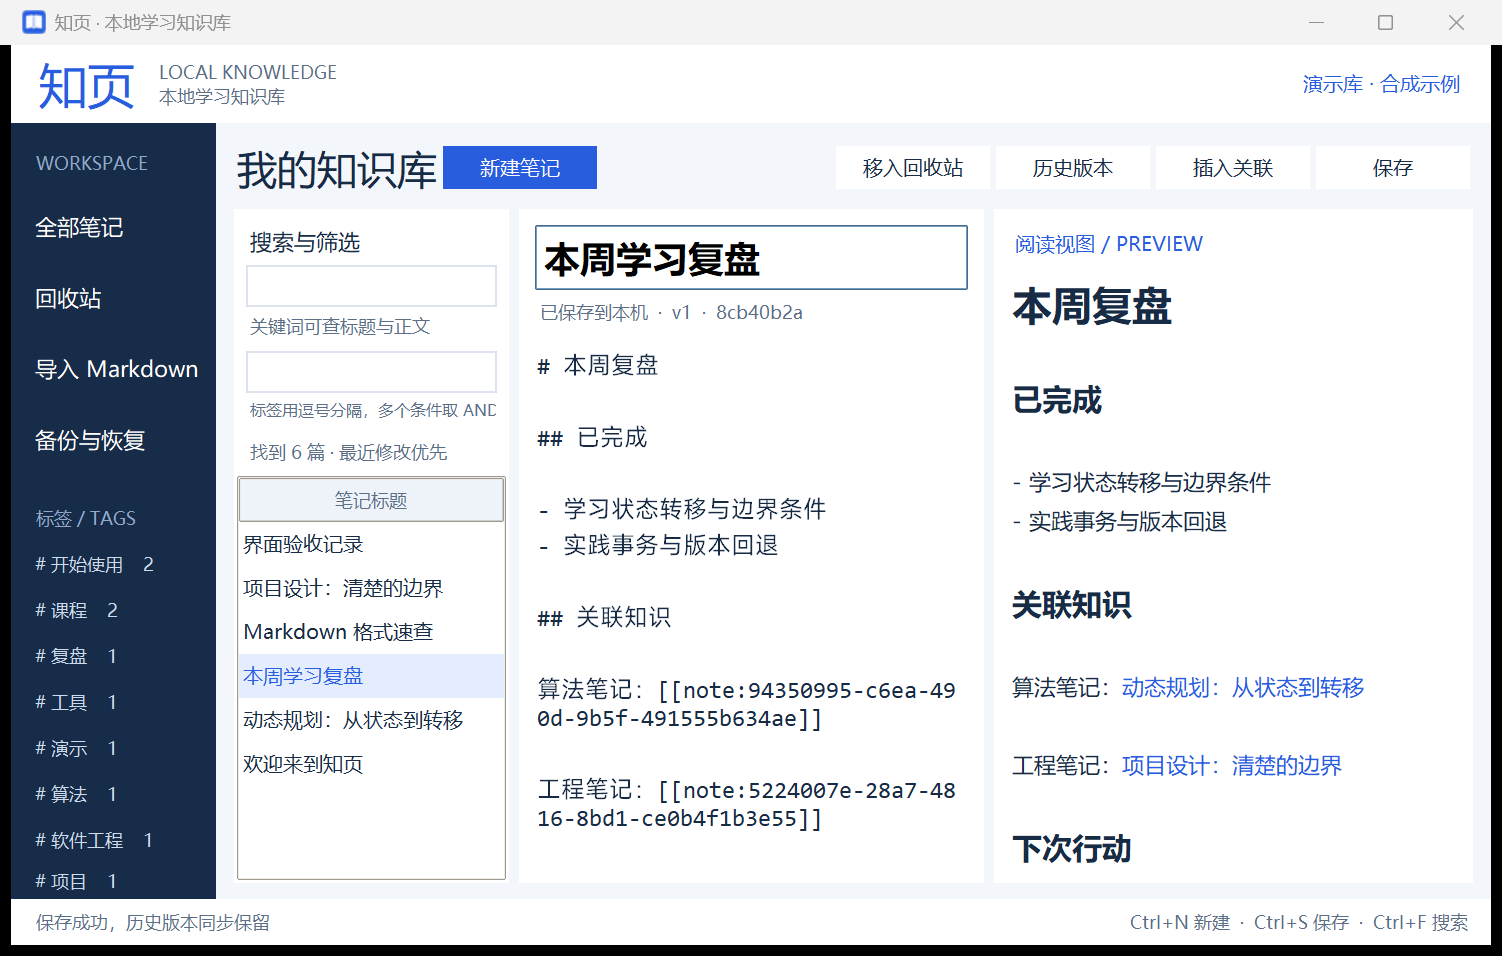
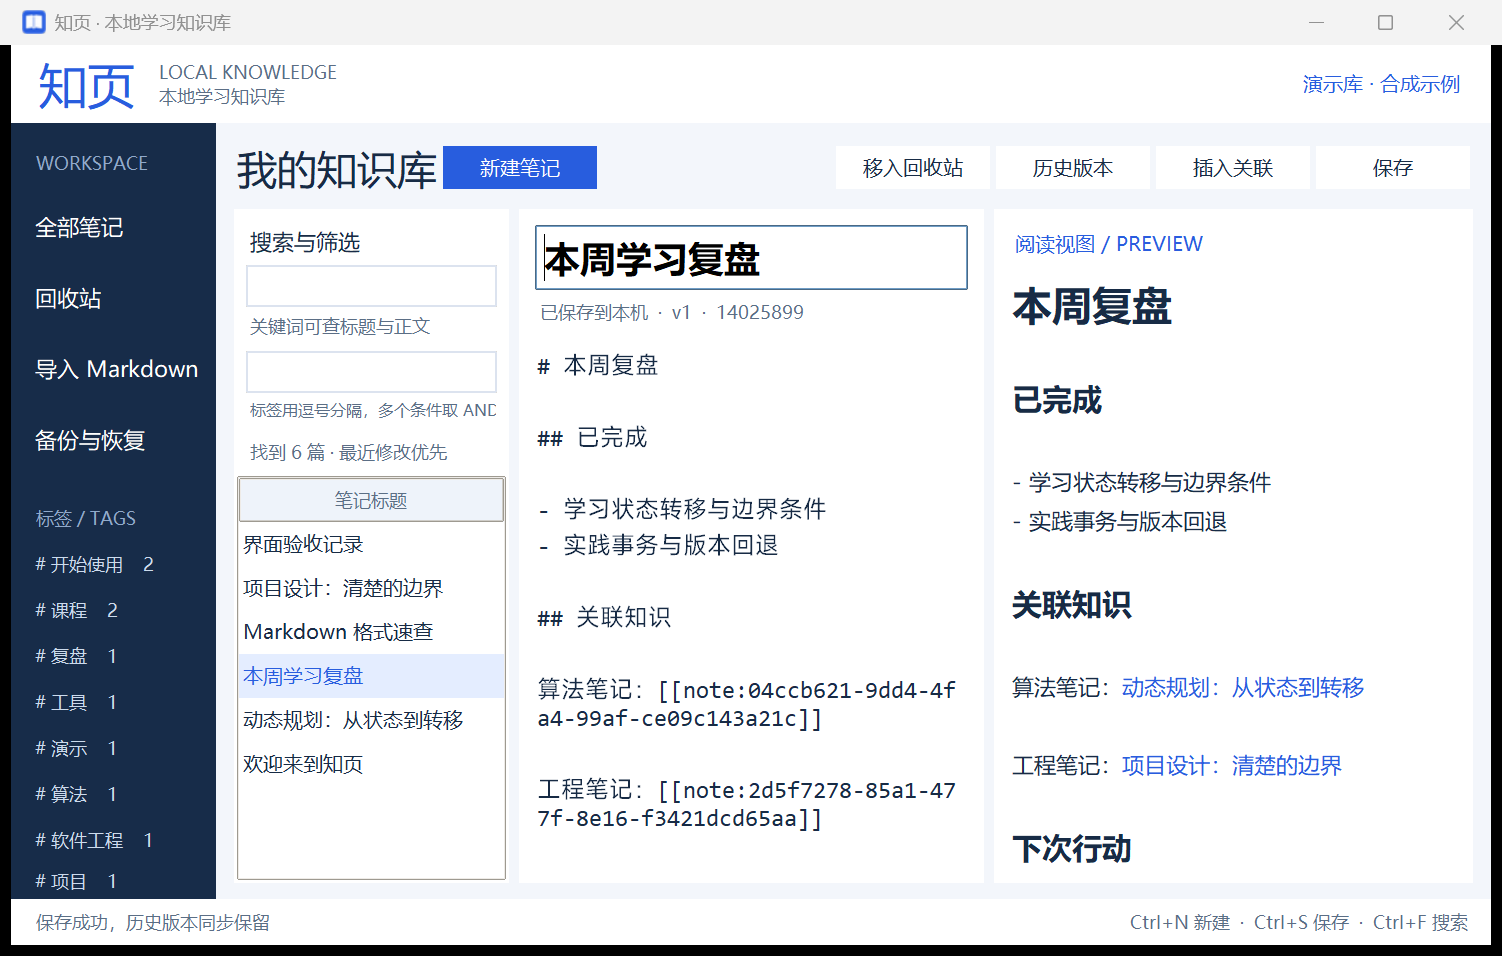
build: package verified executable reports and authentic history

Changed region(s): [[0.3369, 0.6977, 0.6125, 0.7584], [0.3675, 0.819, 0.6125, 0.8797], [0.4594, 0.3033, 0.5513, 0.3337]]

diff --git a/tools/package_release.py b/tools/package_release.py
@@ -1,0 +1,187 @@
+"""Package actual artifacts and evidence, excluding personal databases and credentials."""
+
+import hashlib
+import json
+import subprocess
+import sys
+import zipfile
+from datetime import datetime, timezone
+from pathlib import Path
+
+ROOT = Path(__file__).resolve().parent.parent
+RELEASE = ROOT / "release"
+VERSION = "v1.0.0"
+REPO = "https://github.com/IceApplejuice/zhiyeteam-software-engineering"
+
+
+def git(*args):
+    return subprocess.check_output(["git", *args], cwd=ROOT).decode("utf-8").strip()
+
+
+def load(name):
+    return json.loads((ROOT / "reports" / name).read_text(encoding="utf-8"))
+
+
+def digest(content):
+    return hashlib.sha256(content).hexdigest()
+
+
+def main():
+    RELEASE.mkdir(exist_ok=True)
+    tests, frozen, build = [
+        load(n) for n in ("test_results.json", "frozen_smoke.json", "build.json")
+    ]
+    assert (
+        tests["passed"]
+        and tests["failures"] == tests["errors"] == tests["skipped"] == 0
+    )
+    assert frozen["passed"] and frozen["self_contained_executable_launched"]
+    assert all(x["word_pdf_content_matches"] for x in load("document_checks.json"))
+    assert not git(
+        "diff", "--name-only", tests["git_revision"], "--", "src", "tests"
+    ), "Production/test source changed since measured tests; run checks and rebuild."
+    assert not git(
+        "status", "--porcelain", "--", "src", "tests", "tools", "docs", "README.md"
+    ), "Commit reviewed source before packaging."
+    exe = (ROOT / "dist/ZhiYeTeam.exe").read_bytes()
+    assert digest(exe) == build["sha256"] and len(exe) == build["bytes"]
+    head = git("rev-parse", "HEAD")
+    audit = load("contribution_status.json")
+    assert audit["snapshot_head"] == head, "Refresh contribution_audit.py first."
+    publish = load("github_publish.json")
+    assert publish["head"] == head and publish["all_original_commit_hashes_preserved"]
+    ci = load("ci_status.json")
+    assert ci["headSha"] == head and ci["conclusion"] == "success", (
+        "Final CI has not passed."
+    )
+    source = RELEASE / "zhiyeteam-source.zip"
+    subprocess.run(
+        ["git", "archive", "--format=zip", "--output", str(source), head],
+        cwd=ROOT,
+        check=True,
+    )
+    bundle = RELEASE / "zhiyeteam-history.bundle"
+    subprocess.run(
+        ["git", "bundle", "create", str(bundle), "--all"], cwd=ROOT, check=True
+    )
+    subprocess.run(
+        ["git", "bundle", "verify", str(bundle)],
+        cwd=ROOT,
+        check=True,
+        stdout=subprocess.PIPE,
+        stderr=subprocess.PIPE,
+    )
+    entries = {}
+
+    def add(path, name):
+        entries[name] = Path(path).read_bytes()
+
+    entries["软件/ZhiYeTeam.exe"] = exe
+    for label, arguments in (("启动演示", " --demo"), ("启动个人笔记", "")):
+        entries[f"软件/{label}.bat"] = (
+            '@echo off\r\ncd /d "%~dp0"\r\nstart "" "%~dp0ZhiYeTeam.exe"'
+            + arguments
+            + "\r\n"
+        ).encode("ascii")
+    for path in sorted((ROOT / "docs/generated").iterdir()):
+        if path.suffix in (".pdf", ".docx"):
+            add(path, "报告/" + path.name)
+    assert sum(n.startswith("报告/") for n in entries) == 8
+    add(source, "源码/" + source.name)
+    add(bundle, "源码/" + bundle.name)
+    for path in sorted((ROOT / "reports").iterdir()):
+        if (
+            path.suffix in (".json", ".csv", ".txt")
+            and path.name != "release_manifest.json"
+        ):
+            add(path, "证据/" + path.name)
+    for name in (
+        "团队分工与提交计划.md",
+        "现场演示步骤.md",
+        "功能与代码定位.md",
+        "成员信息.csv",
+        "真实用户反馈记录.csv",
+    ):
+        add(ROOT / "docs" / name, "分工与答辩/" + name)
+    for name in ("architecture.png", "desktop.png"):
+        add(ROOT / "docs/images" / name, "证据/截图/" + name)
+    # Preserve licenses actually distributed by the installed runtime/build tools.
+    licenses = {
+        "Python-LICENSE.txt": Path(sys.base_prefix) / "LICENSE.txt",
+        "Tk-license.terms": Path(sys.base_prefix) / "tcl/tk8.6/license.terms",
+    }
+    site = ROOT / ".venv/Lib/site-packages"
+    for pattern, label in (
+        ("markdown-*.dist-info/licenses/LICENSE.md", "Markdown-LICENSE.md"),
+        ("pyinstaller-*.dist-info/licenses/COPYING.txt", "PyInstaller-COPYING.txt"),
+    ):
+        licenses[label] = next(site.glob(pattern))
+    for name, path in licenses.items():
+        add(path, "软件/第三方许可/" + name)
+    entries["软件/第三方许可/说明.txt"] = (
+        "独立程序包含Python/Tcl-Tk运行库、SQLite及Python-Markdown；"
+        "使用PyInstaller打包。实际许可正文随本目录保留；"
+        "Python许可文件包含所附第三方声明，PyInstaller文件包含bootloader例外。\n"
+        "本项目源码未另行授予开源许可。\n"
+    ).encode("utf-8-sig")
+    entries["开始阅读.txt"] = (
+        f"知页·本地学习知识库 {VERSION}\n\n"
+        "1. 完整解压到电脑，打开“软件/启动演示.bat”，即可离线演示；无需安装Python。\n"
+        "2. 打开“报告/01_团队项目实验报告.pdf”阅读选题、需求、设计和真实测试。"
+        "同名Word供填写成员信息及后续修改；提交前检查姓名、学号和老师要求。\n"
+        "3. 分工与答辩目录包含四人逐次提交计划、8分钟流程、功能代码定位。\n"
+        "4. 默认个人数据在%LOCALAPPDATA%/ZhiYeTeam/personal；演示数据在同级demo，互不覆盖。\n"
+        "5. 源码ZIP用于阅读，history.bundle保留真实历史；"
+        "可执行 git clone zhiyeteam-history.bundle zhiyeteam-source 恢复仓库。\n"
+        f"6. GitHub：{REPO}，当前私有；老师和成员需要访问权限。\n"
+        f"源代码提交：{head}\n"
+        f"本包实际单元/业务测试{tests['tests_run']}项通过，独立exe已在本机启动保存。"
+        "第二台电脑验证与至少2名真人试用仍待小组实际执行，不能填成已完成。\n"
+        f"当前main有{audit['actual_commits']}次真实提交，{audit['distinct_author_emails']}个作者邮箱；"
+        "现有基线由当前账号AI辅助建立。其余成员要用本人账号完成有实质改动的任务，不能把计划当贡献。\n"
+        "请填写另外三人的姓名/学号/GitHub账号，邀请协作者，认领任务；"
+        "每人至少三次实质提交，保留diff、测试与PR，演示时讲本人代码。\n"
+        "暂按2026-11-02验收安排；以老师最新通知为准。\n"
+    ).encode("utf-8-sig")
+    manifest = {
+        "version": VERSION,
+        "created_at_utc": datetime.now(timezone.utc).isoformat(),
+        "source_commit": head,
+        "tested_production_revision": tests["git_revision"],
+        "tests_passed": tests["tests_run"],
+        "exe_sha256": build["sha256"],
+        "ci_url": ci["url"],
+        "repository": REPO,
+        "repository_private": True,
+        "files": [
+            {"path": n, "bytes": len(b), "sha256": digest(b)}
+            for n, b in sorted(entries.items())
+        ],
+    }
+    manifest_bytes = json.dumps(manifest, ensure_ascii=False, indent=2).encode("utf-8")
+    entries["文件清单与SHA256.json"] = manifest_bytes
+    (ROOT / "reports/release_manifest.json").write_bytes(manifest_bytes)
+    output = RELEASE / f"知页团队验收包_{VERSION}.zip"
+    with zipfile.ZipFile(output, "w", zipfile.ZIP_DEFLATED) as z:
+        for name, content in sorted(entries.items()):
+            z.writestr(name, content)
+    with zipfile.ZipFile(output) as z:
+        assert z.testzip() is None
+        for row in manifest["files"]:
+            assert digest(z.read(row["path"])) == row["sha256"]
+    result = {
+        "file": output.name,
+        "bytes": output.stat().st_size,
+        "sha256": digest(output.read_bytes()),
+        "source_commit": head,
+        "entries": len(entries),
+        "zip_crc_and_sha_verified": True,
+    }
+    (RELEASE / "release_checks.json").write_text(
+        json.dumps(result, ensure_ascii=False, indent=2), encoding="utf-8"
+    )
+    print(json.dumps(result, ensure_ascii=False))
+
+
+if __name__ == "__main__":
+    main()

diff --git a/tools/build_reports.py b/tools/build_reports.py
@@ -377,7 +377,7 @@ def build():
     )
     plan.h("提交内容与验收证据")
     plan.p(
-        "每人建立feature/a-…、feature/b-…、feature/c-…或test/d-…分支。每次提交的正文写目的、实际变更、运行命令、结果和限制；每次都有实质diff。A协调ui入口，其他成员优先新增独立模块，避免同一函数被三人同时重写。完整的12项扩展任务及提交标题见仓库docs/团队分工与提交计划.md。"
+        "每人建立feature/a-…、feature/b-…、feature/c-…或test/d-…分支。每次提交的正文写目的、实际变更、运行命令、结果和限制；每次都有实质diff。A协调ui入口，其他成员优先新增独立模块，避免同一函数被三人同时重写。完整的12项任务及提交标题见仓库docs/团队分工与提交计划.md，对应GitHub Issue #1–#12。"
     )
     plan.table(
         ["步骤", "成员本人必须做的操作"],
@@ -484,7 +484,7 @@ def build():
             ),
             (
                 "这个测试结果证明什么？",
-                "30项单元/业务测试和exe窗口冒烟已运行；200篇后端检索P95不是全UI性能；跨机和真人试用没有做就不算通过。",
+                f"{tests['tests_run']}项单元/业务测试和exe窗口冒烟已运行；200篇后端检索P95不是全UI性能；跨机和真人试用没有做就不算通过。",
             ),
         ],
     )

diff --git a/docs/团队分工与提交计划.md b/docs/团队分工与提交计划.md
@@ -24,21 +24,21 @@
 
 每次都附功能diff和验证结果。小功能也要真正实现；只改提交信息、空提交和替别人署名不计入这个计划。四人可用不同文件并行，涉及ui.py的入口由A协调，避免同时大改同一段。
 
-以下均为基线之后的计划，尚未完成；不得直接把这些标题提交成空记录。
+以下12项对应GitHub Issue #1–#12，均为基线之后的计划，尚未完成；不得直接把这些标题提交成空记录。
 
 | 任务 | 分支与建议提交信息 | 真实改动与验收 |
 | --- | --- | --- |
 | A1 | `feature/a-editor-settings` / `feat(ui): persist editor font preferences` | 接通已有settings存储，增加12–24字号设置和重开恢复；验证正文不被更改。 |
 | A2 | 同分支 / `feat(ui): improve long-note scrolling and focus navigation` | 给长正文/预览和标签区域完善滚动、焦点路径与窄窗口表现；新截图来自真实程序。 |
 | A3 | 同分支 / `test(ui): cover editor settings and leave-page guards` | 加A1/A2交互及取消离开测试，更新对应操作手册，不修改他人的署名。 |
-| B1 | `feature/b-backup-policy` / `feat(backup): add opt-in scheduled snapshots` | 独立scheduler模块，用户明确选目录后周期备份、暂停/单个待执行；不后台擅自启动。 |
-| B2 | 同分支 / `feat(storage): add configurable history retention` | 默认保留现有历史；用户确认后按策略清理旧版本，保留当前版本、清理前备份；不静默删除。 |
-| B3 | 同分支 / `test(backup): verify scheduling retention and disk failures` | 模拟时钟、目标不可写/空间不足及保留策略，用实际结果更新测试报告。 |
+| B1 | `feature/b-backup-policy` / `feat(backup): check free space before snapshot creation` | 根据数据库大小估算临时文件与保护副本空间，空间不足给明确提示，不改当前库；预检不能替代实际写入错误处理。 |
+| B2 | 同分支 / `feat(backup): record privacy-preserving restore outcomes` | 审计记录时间、备份/保护文件标识、结果，不记录正文；存放在恢复不会覆盖的位置，审计失败要定义处理规则。 |
+| B3 | 同分支 / `test(backup): verify disk checks and restore audit failures` | 用故障注入覆盖空间不足、审计写失败和恢复回退，用实际结果更新测试报告。 |
 | C1 | `feature/c-search-links` / `feat(search): add updated-date filters` | 给search函数添加可选时间过滤，保持旧API默认行为；补边界测试，与A协调一处界面入口。 |
-| C2 | 同分支 / `feat(links): detect and repair unresolved targets` | 列出失效UUID，用户选定新目标后按原span替换并保存为新版本；代码块不得修改。 |
-| C3 | 同分支 / `test(search): validate filter and link-repair regressions` | 覆盖日期边界、重名/已删目标、转义/代码标记和回退后关联；更新代码定位说明。 |
+| C2 | 同分支 / `feat(search): return readable hit snippets` | 为结果返回命中字段和可读摘要，长度有上限，不改变AND/排序规则；与A协调展示入口。 |
+| C3 | 同分支 / `test(search): validate dates snippets and escaped links` | 覆盖日期边界、空条件、中文摘要长度、转义/代码标记和回退后关联；更新代码定位说明。 |
 | D1 | `test/d-release-evidence` / `ci: publish structured test evidence` | CI输出JSON/JUnit及可下载工件，保留失败日志；不写固定的“全通过”。 |
-| D2 | 同分支 / `build: validate release files before publishing` | 打包前必须通过测试、exe冒烟、清单与SHA校验；用第二台Windows做不依赖Python的启动检查。 |
+| D2 | 同分支 / `build: require cross-machine acceptance evidence` | 在已有打包清单/SHA校验基础上扩展跨机验收门禁；用第二台Windows做不依赖Python的实际启动、保存、备份检查并记录环境。 |
 | D3 | 同分支 / `fix: address verified pilot feedback and document release` | 收集至少2名真实试用者，修复确认的问题并加回归用例，更新报告/Release；未发现缺陷则据实记录，不编造问题。 |
 
 ## 协作步骤
